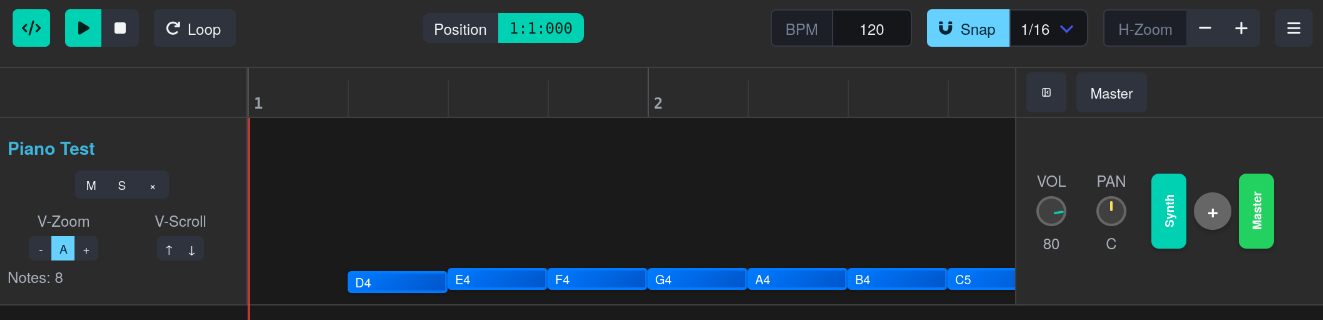
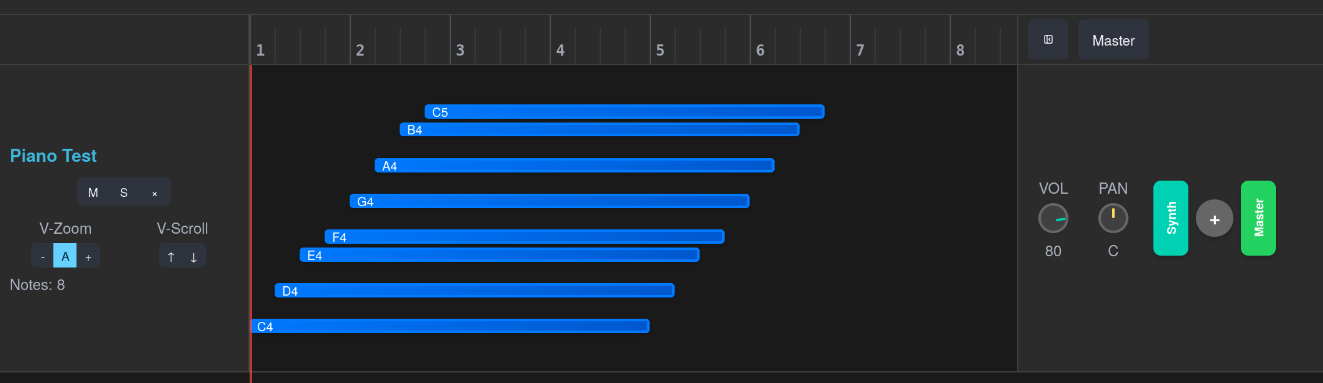
repairs dragging and handles

diff --git a/src/components/TrackLane.jsx b/src/components/TrackLane.jsx
@@ -21,12 +21,9 @@ export default function TrackLane(props) {
   const [resizingNote, setResizingNote] = createSignal(null); // { noteIndex, edge: 'left'|'right' }
 
   // FORCE CODE RELOAD CHECK - VERSION 2.0
-  console.log("🚀🚀🚀 TrackLane.jsx RELOADED - NO CLAMPING + NO AUTO-ZOOM VERSION 2.0 🚀🚀🚀");
+  console.log("🚀🚀🚀 TrackLane.jsx RELOADED - EFFECTS DEBUG VERSION 🚀🚀🚀");
 
-  // Debug log track properties on mount and change
-  createEffect(() => {
-    console.log(`🏷 TRACK [${props.track.name}]: verticalZoom=${props.track.verticalZoom}, height=${props.track.height}, trackHeight=${props.trackHeight}`);
-  });
+  // Removed track property debug logging
 
   let laneRef;
   let dragStartPos = { x: 0, y: 0 };
@@ -48,7 +45,6 @@ export default function TrackLane(props) {
     const visibleSemitones = 12 / zoom; // More zoom = fewer visible semitones
     const spacing = (trackHeight - 40) / visibleSemitones; // 20px margin top/bottom
     
-    console.log(`🔧 GRID SPACING: trackHeight=${trackHeight}, zoom=${zoom}, visibleSemitones=${visibleSemitones.toFixed(1)}, spacing=${spacing.toFixed(2)}`);
     
     return spacing;
   });
@@ -59,8 +55,6 @@ export default function TrackLane(props) {
     // Note height should be 80% of grid spacing, but at least 8px for visibility
     const result = Math.max(8, spacing * 0.8);
     
-    // Debug logging for note height
-    console.log(`📏 NOTE HEIGHT: spacing=${spacing.toFixed(2)}, result=${result.toFixed(2)}`);
     
     return result;
   });
@@ -101,33 +95,47 @@ export default function TrackLane(props) {
   const parseDurationToMeasures = (duration) => {
     if (typeof duration === 'number') return duration;
     
+    // Check if it's a precise decimal string (new format) - must be pure number string
+    if (typeof duration === 'string' && /^\d+\.?\d*$/.test(duration)) {
+      return parseFloat(duration);
+    }
+    
+    // Legacy note value mapping
     const durationMap = {
-      '1n': 4, '2n': 2, '4n': 1, '8n': 0.5, '16n': 0.25, '32n': 0.125
+      '1n': 1, '2n': 0.5, '4n': 0.25, '8n': 0.125, '16n': 0.0625, '32n': 0.03125
     };
     
     return durationMap[duration] || 1;
   };
 
-  // Convert measures to duration string
+  // Convert measures to duration string - Use precise decimal format for better resolution
   const measuresToDuration = (measures) => {
-    if (measures >= 4) return '1n';
-    if (measures >= 2) return '2n';
-    if (measures >= 1) return '4n';
-    if (measures >= 0.5) return '8n';
-    if (measures >= 0.25) return '16n';
-    return '32n';
+    // For precise control during resize, store the exact measure value as a number
+    // This bypasses the coarse note value quantization
+    return measures.toString();
   };
 
   // Convert duration to width
   const durationToWidth = (duration) => {
-    const beatWidth = typeof props.beatWidth === 'function' ? props.beatWidth() : props.beatWidth;
-    if (typeof duration === 'number') return duration * beatWidth * 4;
+    const barWidth = typeof props.barWidth === 'function' ? props.barWidth() : props.barWidth;
     
+    if (typeof duration === 'number') {
+      return Math.max(20, duration * barWidth);
+    }
+    
+    // Check if it's a precise decimal string (new format) - must be pure number string
+    if (typeof duration === 'string' && /^\d+\.?\d*$/.test(duration)) {
+      const measures = parseFloat(duration);
+      return Math.max(20, measures * barWidth);
+    }
+    
+    // Legacy note value mapping - convert to measures first
     const durationMap = {
-      '1n': 4, '2n': 2, '4n': 1, '8n': 0.5, '16n': 0.25, '32n': 0.125
+      '1n': 1, '2n': 0.5, '4n': 0.25, '8n': 0.125, '16n': 0.0625, '32n': 0.03125
     };
     
-    return Math.max(20, (durationMap[duration] || 1) * beatWidth);
+    const measures = durationMap[duration] || 1;
+    return Math.max(20, measures * barWidth);
   };
 
 
@@ -150,12 +158,7 @@ export default function TrackLane(props) {
     // NO CLAMPING - let notes go out of bounds naturally
     // This way notes disappear when zoomed in, which is the expected behavior
     
-    // Debug logging for our demo notes
-    if ([60, 62, 64, 65, 67, 69, 71, 72].includes(midiNote)) {
-      const noteName = midiToNoteName(midiNote);
-      const visible = (yPosition >= -currentNoteHeight && yPosition <= trackHeight) ? '' : ' [OUT OF BOUNDS]';
-      console.log(`🎵 NOTE POSITION ${noteName}: midiNote=${midiNote}, offset=${noteOffset}, noteCenterY=${noteCenterY.toFixed(1)}, yPosition=${yPosition.toFixed(1)}${visible}`);
-    }
+    // Removed debug logging - notes position as expected
     
     return yPosition;
   };
@@ -228,12 +231,12 @@ export default function TrackLane(props) {
       let closestDistance = Infinity;
       
       for (let testMidi = 48; testMidi <= 72; testMidi++) { // Test range C3 to C5
-        // Calculate the center Y position for this MIDI note
-        const centerMidi = 60;
-        const noteOffset = testMidi - centerMidi;
-        const centerY = trackHeight / 2;
+        // Use the SAME positioning logic as getPitchYPosition
         const spacing = getGridSpacing();
-        const pitchCenterY = centerY - (noteOffset * spacing);
+        const referenceMidi = 66; // F#4 - same as in getPitchYPosition
+        const referenceY = trackHeight / 2; // Center of track
+        const noteOffset = testMidi - referenceMidi;
+        const pitchCenterY = referenceY - (noteOffset * spacing);
         
         const distance = Math.abs(y - pitchCenterY);
         if (distance < closestDistance) {
@@ -335,13 +338,22 @@ export default function TrackLane(props) {
     
     const note = props.track.notes[noteIndex];
     dragStartPos = { x: e.clientX, y: e.clientY };
+    const measureTime = parseTimeToMeasures(note.time || 0);
+    const measureDuration = parseDurationToMeasures(note.duration);
+    
     originalNoteData = {
       note: { ...note },
       index: noteIndex,
-      measure: parseTimeToMeasures(note.time || 0),
+      measure: measureTime,
       duration: note.duration,
+      measureDuration: measureDuration,
       midiNote: typeof note.note === 'string' ? noteNameToMidi(note.note) : note.note
     };
+    
+    console.log(`🎯 RESIZE START [${edge}] ${note.note}:`);
+    console.log(`   📍 Original: time=${note.time}, duration=${note.duration}`);
+    console.log(`   📏 Measures: start=${measureTime.toFixed(3)}, duration=${measureDuration.toFixed(3)}, end=${(measureTime + measureDuration).toFixed(3)}`);
+    console.log(`   🖱 Mouse start: x=${dragStartPos.x}, y=${dragStartPos.y}`);
     
     setResizingNote({ noteIndex, edge });
   };
@@ -355,44 +367,84 @@ export default function TrackLane(props) {
     const currentY = e.clientY - rect.top;
     
     if (resizingNote()) {
-      // Handle note resizing
+      // Handle note resizing - USE RELATIVE MOUSE MOVEMENT
       const resize = resizingNote();
-      const newMeasure = Math.max(0, xToMeasure(currentX));
-      const newBeats = newMeasure * 4;
-      const snappedBeats = store.snapEnabled ? snapTimeToGrid(newBeats, store.snapValue) : newBeats;
-      const snappedMeasure = snappedBeats / 4;
+      const deltaX = e.clientX - dragStartPos.x;
+      const deltaY = e.clientY - dragStartPos.y;
+      
+      // Convert mouse delta to measure delta
+      const barWidth = typeof props.barWidth === 'function' ? props.barWidth() : props.barWidth;
+      const deltaMeasures = deltaX / barWidth;
+      
+      console.log(`🔧 RESIZE MOVE [${resize.edge}]:`);
+      console.log(`   🖱 Mouse: deltaX=${deltaX}px, deltaY=${deltaY}px`);
+      console.log(`   📏 Conversion: barWidth=${barWidth}, deltaMeasures=${deltaMeasures.toFixed(3)}`);
       
       const updatedNotes = [...props.track.notes];
       const originalNote = originalNoteData.note;
       const originalMeasure = originalNoteData.measure;
+      const originalDuration = originalNoteData.measureDuration; // Use pre-calculated value
       
       if (resize.edge === 'left') {
-        // Resize from left edge - change start time, adjust duration
-        const newStartMeasure = Math.min(snappedMeasure, originalMeasure + parseDurationToMeasures(originalNote.duration) - 0.25); // Minimum note length
-        const originalEndMeasure = originalMeasure + parseDurationToMeasures(originalNote.duration);
-        const newDuration = Math.max(0.25, originalEndMeasure - newStartMeasure); // Minimum duration
+        // Resize from left edge - move start time, keep end time fixed
+        const originalEndMeasure = originalMeasure + originalDuration;
+        const newStartMeasure = Math.max(0, originalMeasure + deltaMeasures);
+        let finalStartMeasure = newStartMeasure;
         
-        // Convert to bars:beats:ticks format
-        const bars = Math.floor(newStartMeasure);
-        const remainingBeats = (newStartMeasure - bars) * 4;
+        // Apply snapping to the new start time if enabled
+        // NOTE: Disabled during resize for fluid control
+        // if (store.snapEnabled) {
+        //   const newBeats = newStartMeasure * 4;
+        //   const snappedBeats = snapTimeToGrid(newBeats, store.snapValue);
+        //   finalStartMeasure = snappedBeats / 4;
+        // }
+        
+        // Calculate final duration - ensure minimum duration
+        const finalDuration = Math.max(0.125, originalEndMeasure - finalStartMeasure); // Minimum 32nd note
+        
+        // Convert final start to bars:beats:ticks format
+        const bars = Math.floor(finalStartMeasure);
+        const remainingBeats = (finalStartMeasure - bars) * 4;
         const beatsPart = Math.floor(remainingBeats);
         const ticksRaw = (remainingBeats - beatsPart) * 480;
         const ticks = Math.min(479, Math.max(0, Math.round(ticksRaw)));
         const newTimeString = `${bars}:${beatsPart}:${ticks}`;
         
-        updatedNotes[resize.noteIndex] = {
-          ...originalNote,
-          time: newTimeString,
-          duration: measuresToDuration(newDuration)
-        };
-      } else if (resize.edge === 'right') {
-        // Resize from right edge - change duration, keep start time
-        const newEndMeasure = Math.max(snappedMeasure, originalMeasure + 0.25); // Minimum note length
-        const newDuration = Math.max(0.25, newEndMeasure - originalMeasure);
+        console.log(`🔧 LEFT RESULT:`);
+        console.log(`   📏 Original: start=${originalMeasure.toFixed(3)}, duration=${originalDuration.toFixed(3)}, end=${originalEndMeasure.toFixed(3)}`);
+        console.log(`   📏 Raw calculation: newStart=${newStartMeasure.toFixed(3)}, snappedStart=${finalStartMeasure.toFixed(3)}`);
+        console.log(`   📏 Final: start=${finalStartMeasure.toFixed(3)}, duration=${finalDuration.toFixed(3)}, end=${originalEndMeasure.toFixed(3)}`);
+        console.log(`   📄 Time string: ${newTimeString}, duration: ${measuresToDuration(finalDuration)}`);
         
         updatedNotes[resize.noteIndex] = {
           ...originalNote,
-          duration: measuresToDuration(newDuration)
+          time: newTimeString,
+          duration: measuresToDuration(finalDuration)
+        };
+      } else if (resize.edge === 'right') {
+        // Resize from right edge - keep start time, change end time
+        const newDuration = Math.max(0.125, originalDuration + deltaMeasures); // Minimum 32nd note
+        let finalDuration = newDuration;
+        
+        // Apply snapping to the end time if enabled
+        // NOTE: Disabled during resize for fluid control
+        // if (store.snapEnabled) {
+        //   const newEndMeasure = originalMeasure + newDuration;
+        //   const newBeats = newEndMeasure * 4;
+        //   const snappedBeats = snapTimeToGrid(newBeats, store.snapValue);
+        //   const snappedEndMeasure = snappedBeats / 4;
+        //   finalDuration = Math.max(0.125, snappedEndMeasure - originalMeasure);
+        // }
+        
+        console.log(`🔧 RIGHT RESULT:`);
+        console.log(`   📏 Original: start=${originalMeasure.toFixed(3)}, duration=${originalDuration.toFixed(3)}, end=${(originalMeasure + originalDuration).toFixed(3)}`);
+        console.log(`   📏 Raw calculation: newDuration=${newDuration.toFixed(3)}, newEnd=${(originalMeasure + newDuration).toFixed(3)}`);
+        console.log(`   📏 Final: start=${originalMeasure.toFixed(3)}, duration=${finalDuration.toFixed(3)}, end=${(originalMeasure + finalDuration).toFixed(3)}`);
+        console.log(`   📄 Duration string: ${measuresToDuration(finalDuration)}`);
+        
+        updatedNotes[resize.noteIndex] = {
+          ...originalNote,
+          duration: measuresToDuration(finalDuration)
         };
       }
       
@@ -426,12 +478,12 @@ export default function TrackLane(props) {
         let closestDistance = Infinity;
         
         for (let testMidi = 48; testMidi <= 72; testMidi++) { // Test range C3 to C5
-          // Calculate the center Y position for this MIDI note
-          const centerMidi = 60;
-          const noteOffset = testMidi - centerMidi;
-          const centerY = trackHeight / 2;
+          // Use the SAME positioning logic as getPitchYPosition
           const spacing = getGridSpacing();
-          const pitchCenterY = centerY - (noteOffset * spacing);
+          const referenceMidi = 66; // F#4 - same as in getPitchYPosition
+          const referenceY = trackHeight / 2; // Center of track
+          const noteOffset = testMidi - referenceMidi;
+          const pitchCenterY = referenceY - (noteOffset * spacing);
           
           const distance = Math.abs(currentY - pitchCenterY);
           if (distance < closestDistance) {
@@ -626,15 +678,16 @@ export default function TrackLane(props) {
                 <div
                   style={`
                     position: absolute;
-                    left: -4px;
+                    left: 0px;
                     top: 0;
-                    width: ${Math.max(8, Math.min(16, position().height))}px;
+                    width: 12px;
                     height: 100%;
                     cursor: ew-resize;
-                    background: transparent;
+                    background: ${isHovered || isSelected ? 'rgba(255,255,255,0.1)' : 'transparent'};
                     z-index: 25;
-                    opacity: ${isHovered || isSelected ? '1' : '0'};
+                    opacity: 1;
                     transition: opacity 0.1s ease;
+                    border-left: 2px solid ${isHovered || isSelected ? 'rgba(255,255,255,0.8)' : 'transparent'};
                   `}
                   onMouseDown={(e) => {
                     e.stopPropagation();
@@ -643,7 +696,6 @@ export default function TrackLane(props) {
                   }}
                   title="Resize start time"
                 >
-                  <div style="width: 3px; height: 100%; background: rgba(255,255,255,0.9); margin-left: 4px; border-radius: 1px;"></div>
                 </div>
 
                 {/* Note content */}
@@ -655,15 +707,16 @@ export default function TrackLane(props) {
                 <div
                   style={`
                     position: absolute;
-                    right: -4px;
+                    right: 0px;
                     top: 0;
-                    width: ${Math.max(8, Math.min(16, position().height))}px;
+                    width: 12px;
                     height: 100%;
                     cursor: ew-resize;
-                    background: transparent;
+                    background: ${isHovered || isSelected ? 'rgba(255,255,255,0.1)' : 'transparent'};
                     z-index: 25;
-                    opacity: ${isHovered || isSelected ? '1' : '0'};
+                    opacity: 1;
                     transition: opacity 0.1s ease;
+                    border-right: 2px solid ${isHovered || isSelected ? 'rgba(255,255,255,0.8)' : 'transparent'};
                   `}
                   onMouseDown={(e) => {
                     e.stopPropagation();
@@ -672,7 +725,6 @@ export default function TrackLane(props) {
                   }}
                   title="Resize duration"
                 >
-                  <div style="width: 3px; height: 100%; background: rgba(255,255,255,0.9); margin-left: 5px; border-radius: 1px;"></div>
                 </div>
               </div>
             );
